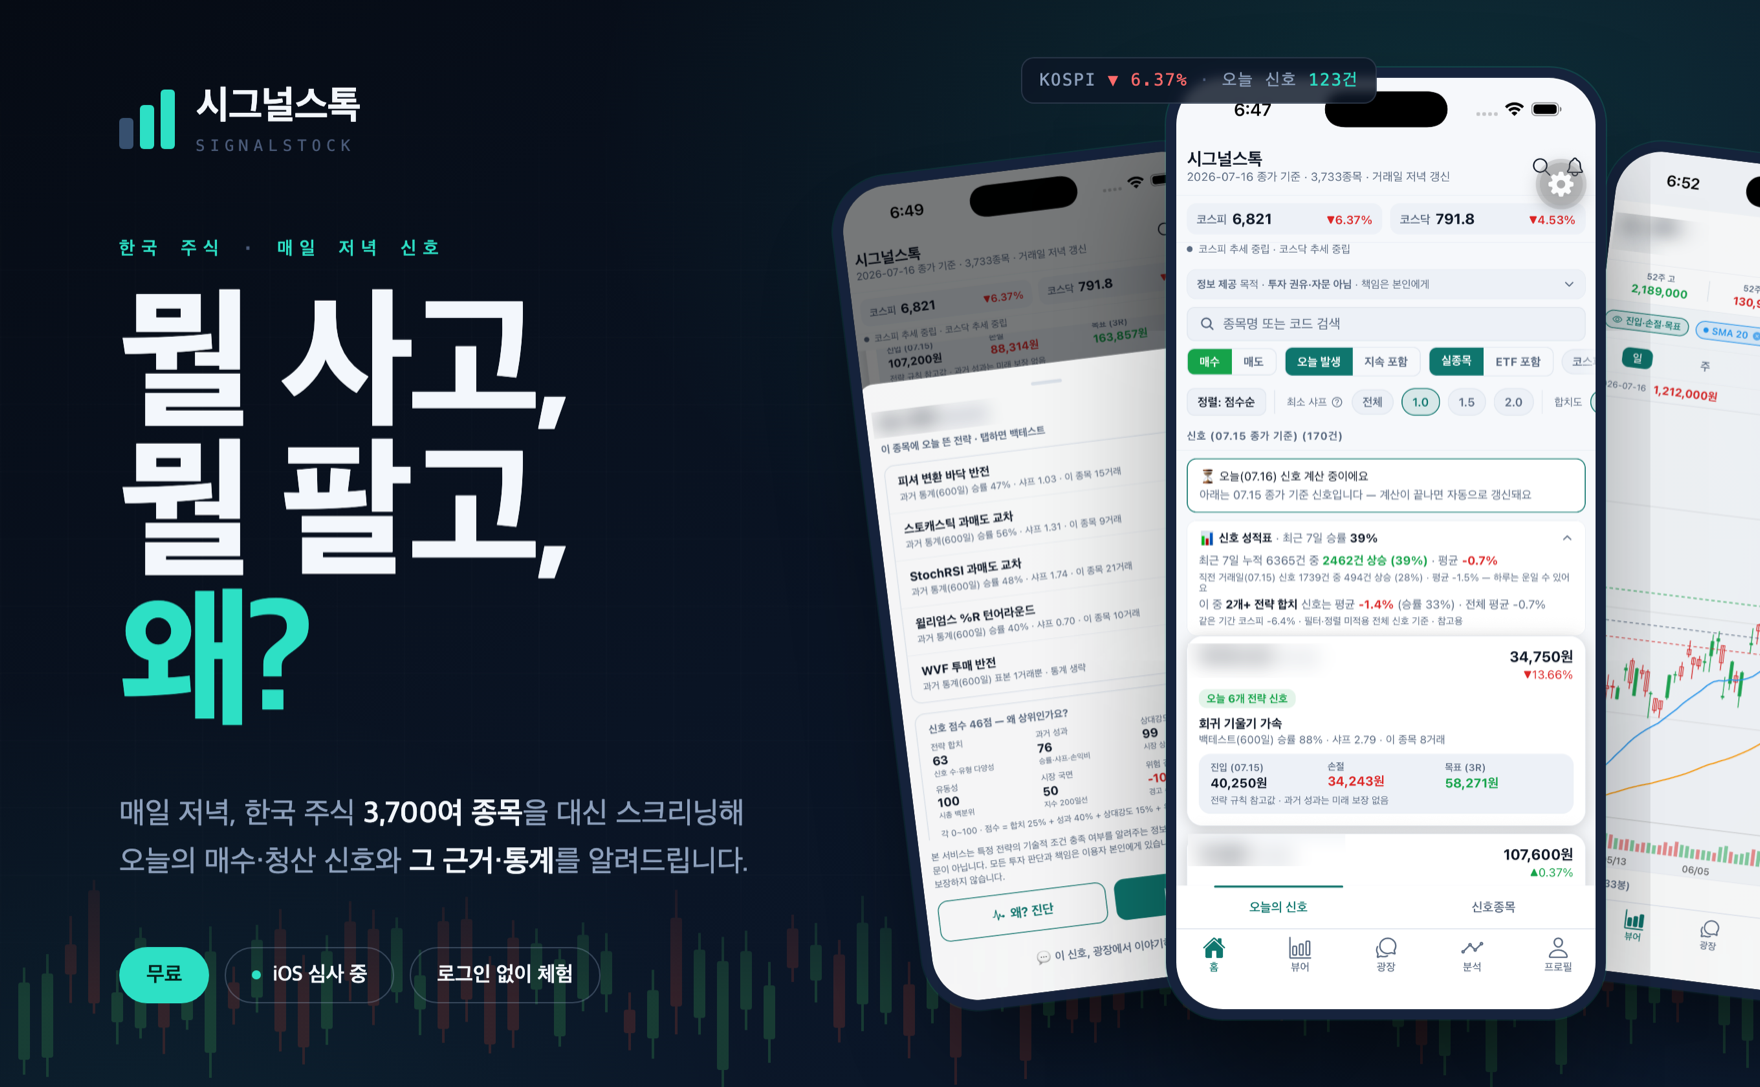
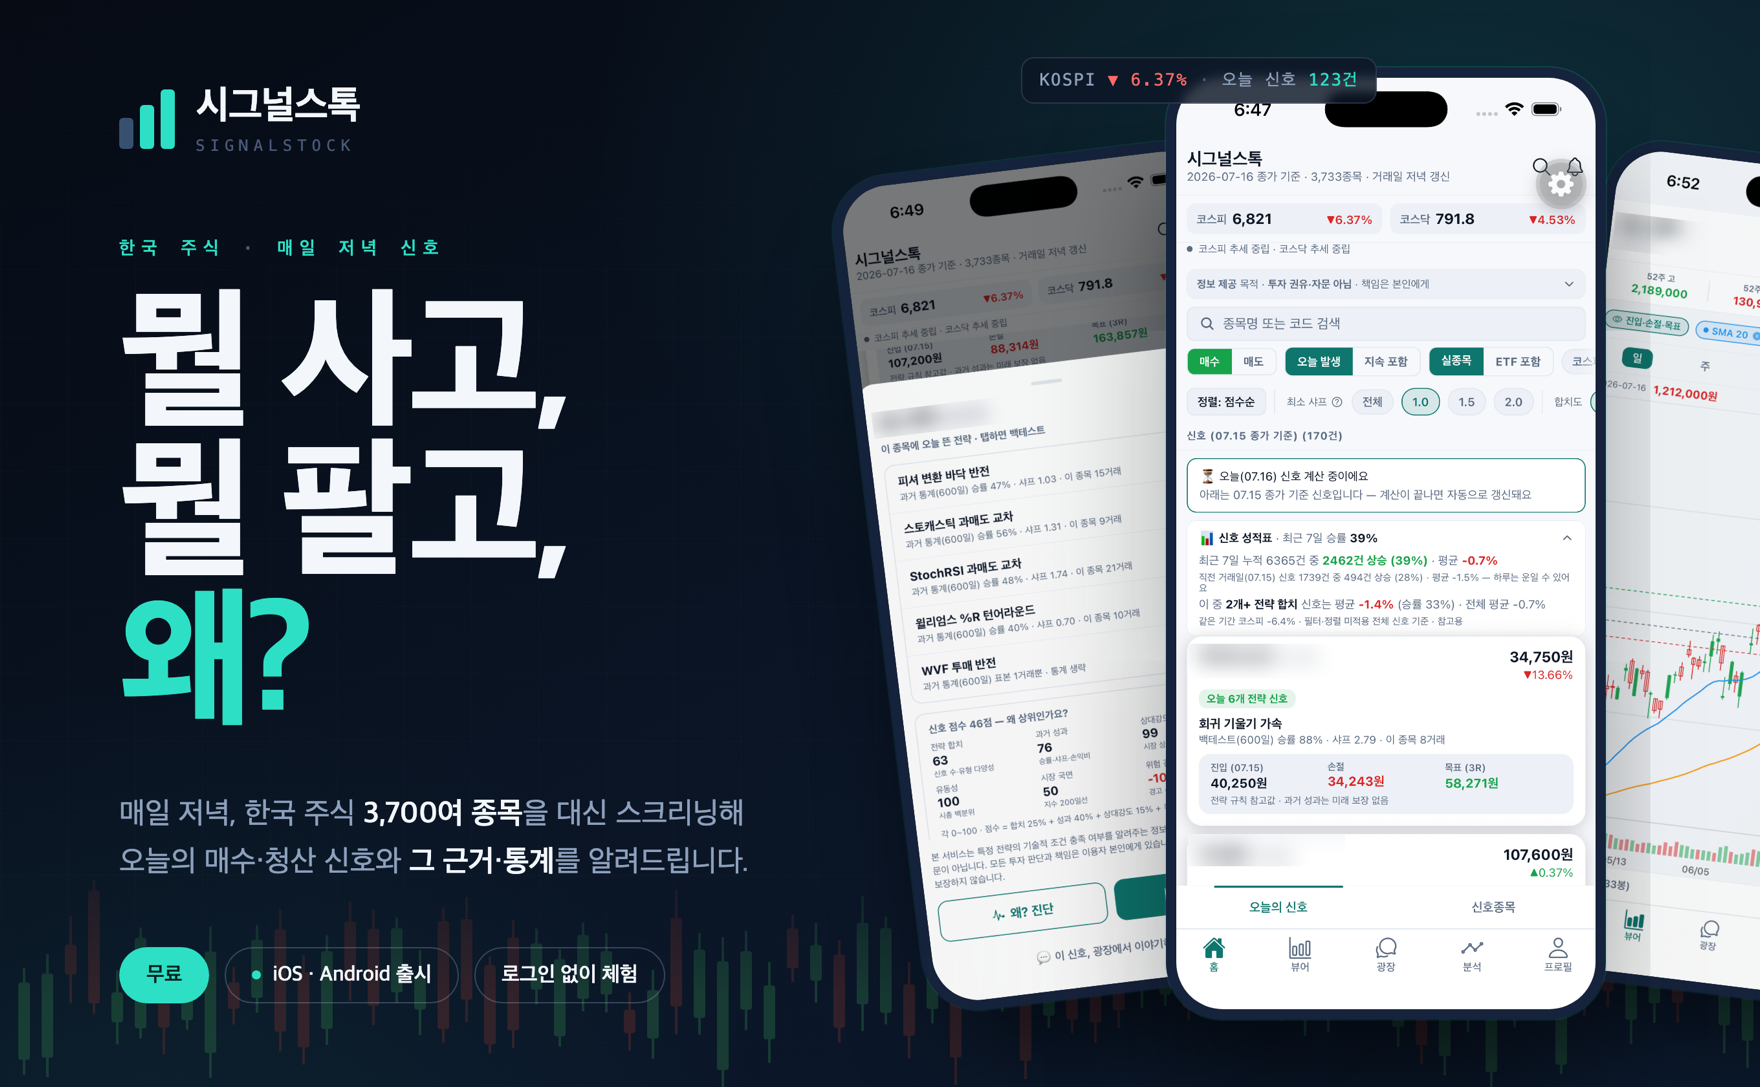
홍보 사이트: hero 이미지 양대 스토어 출시 반영 — 'iOS 심사 중' → 'iOS · Android 출시' 재렌더

diff --git a/_build/hero.html b/_build/hero.html
@@ -96,7 +96,7 @@
 
       <div class="chips">
         <div class="chip pri">무료</div>
-        <div class="chip"><span class="k"></span>iOS 심사 중</div>
+        <div class="chip"><span class="k"></span>iOS · Android 출시</div>
         <div class="chip">로그인 없이 체험</div>
       </div>
     </div>
